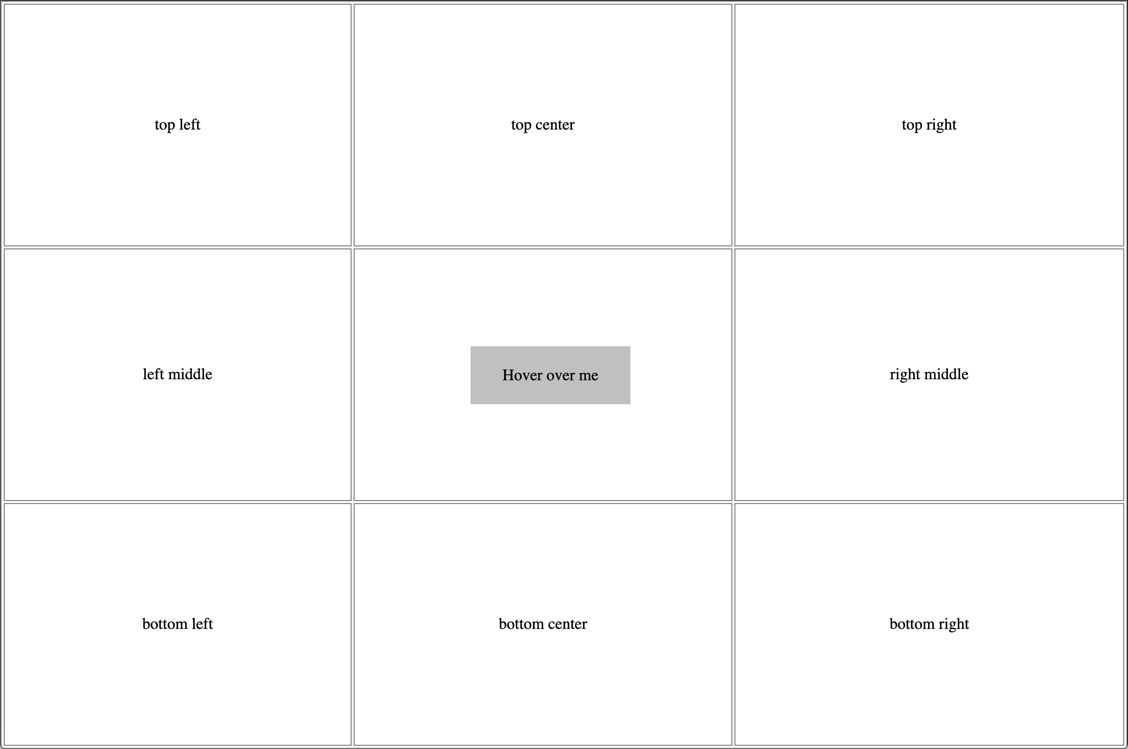
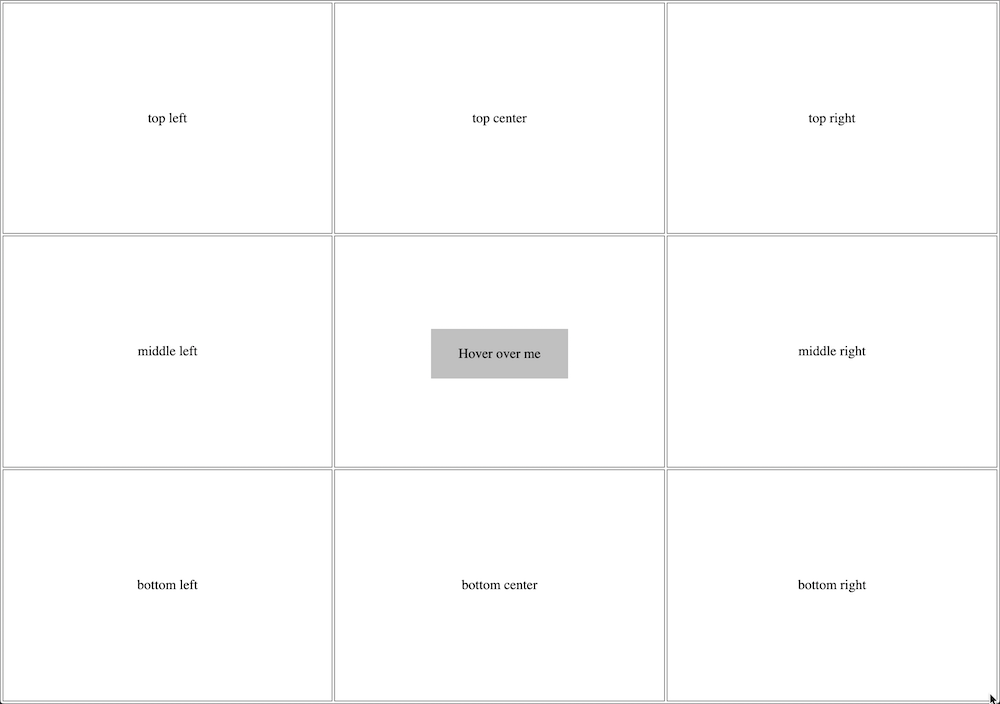
update screenshot

diff --git a/tests/dummy/app/styles/position.scss b/tests/dummy/app/styles/position.scss
@@ -44,7 +44,7 @@
   .grid {
     height: 100vh;
     width: 100%;
-    // table-layout: fixed;
+    table-layout: fixed;
   }
 
   .cell {

diff --git a/README.md b/README.md
@@ -13,7 +13,7 @@ ember install @zestia/ember-async-tooltips
 https://zestia.github.io/ember-async-tooltips
 
 <a href="https://zestia.github.io/ember-async-tooltips">
-  <img src="docs/screenshot.png" width="512" height="319">
+  <img src="docs/screenshot.png" width="500" height="352">
 </a>
 
 ### Notes
